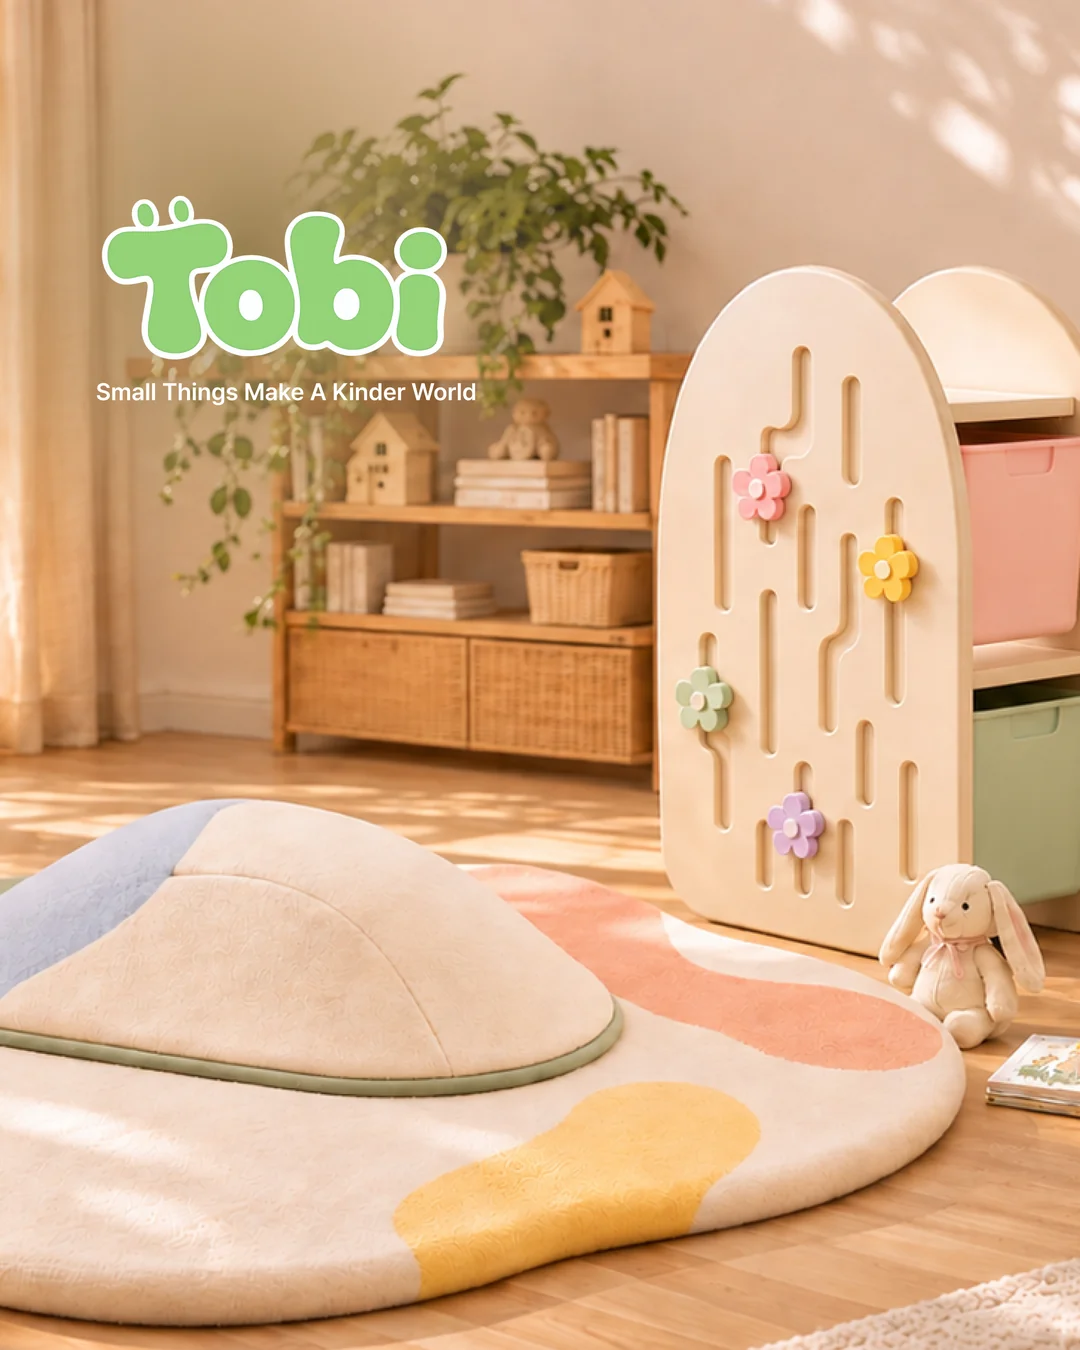
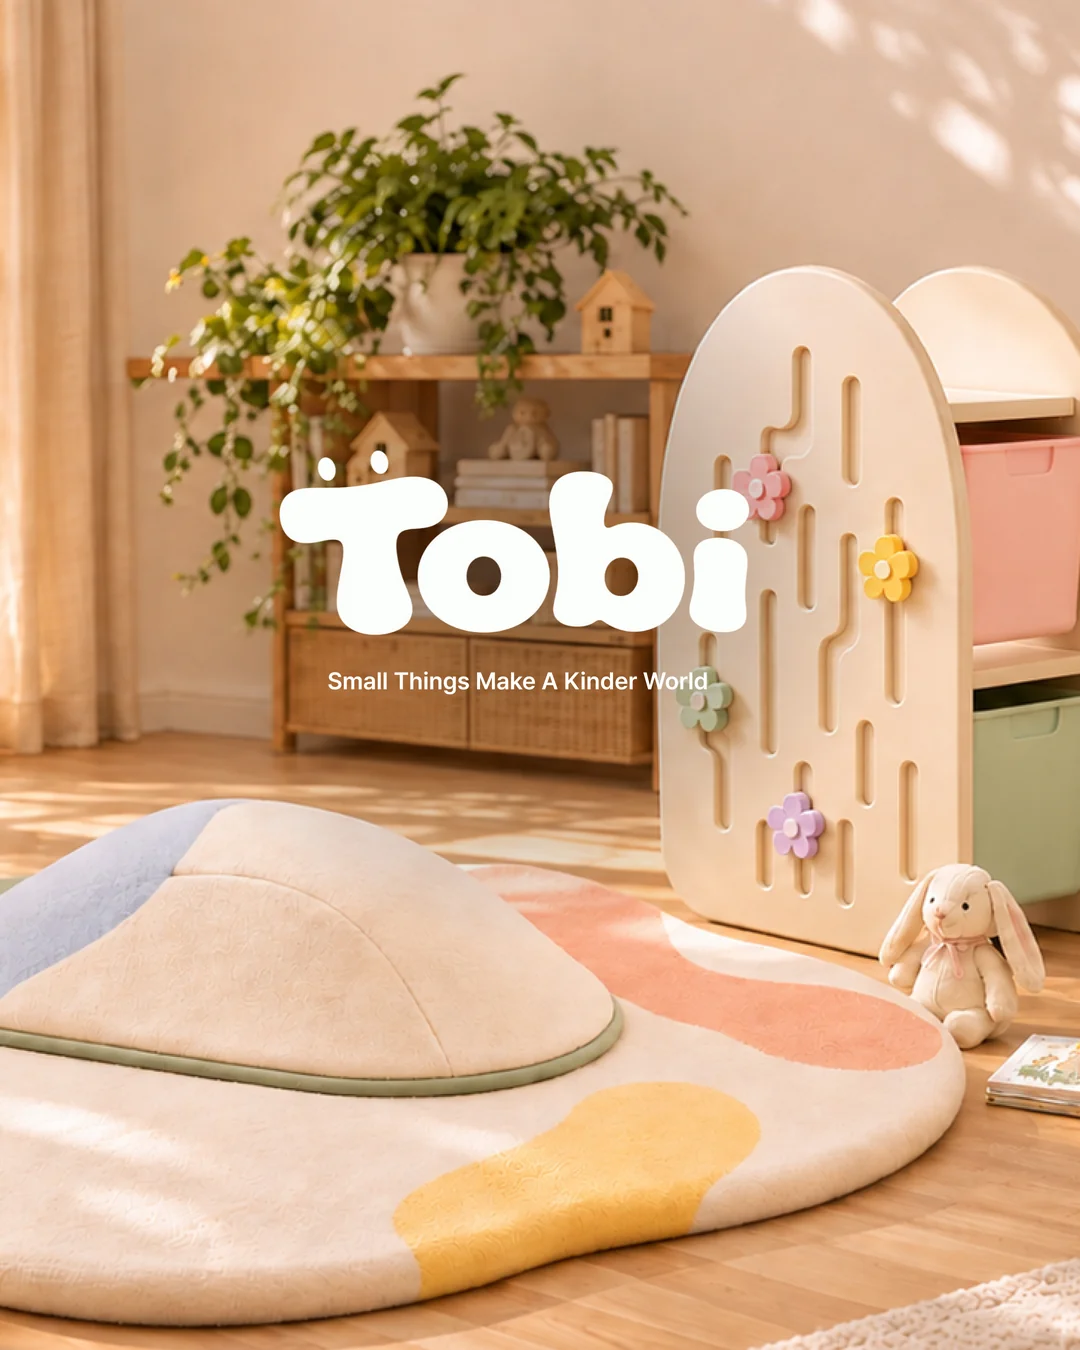
2026 PROJECTS: 재제출 반영 — Tobi(산디종) 썸네일·소개글, elo(산디종) 썸네일

Changed region(s): [[0.0917, 0.0622, 0.7639, 0.6533]]

diff --git a/2026/src/app/2026/_components/projects.ts b/2026/src/app/2026/_components/projects.ts
@@ -174,7 +174,7 @@ const WORKS: Record<ClassKey, [title: string, members: string[], description?: s
     [
       "Tobi",
       ["박수해", "권정현"],
-      "아이는 빠르게 성장하지만, 가구의 역할은 쉽게 변하지 않는다. \n기존의 성장형 가구가 주로 아이의 신체 크기 변화에 대응했다면, \nTOBI는 성장에 따라 달라지는 아이의 행동과 놀이 방식에 주목한다.\n\n숲에서 영감을 받은 부드러운 곡선과 자연물의 형태를 바탕으로, \n기어오르며 신체를 탐색하던 언덕은 숨고 상상하는 놀이 공간으로 변화한다. \n꽃 모양 핀을 움직이며 감각을 탐색하던 서랍장은 스스로 물건을 걸고 정리하는 생활 가구가 된다.\n\nTOBI는 단순히 크기를 조절하는 가구를 넘어, \n아이의 성장에 맞춰 역할과 경험이 함께 변화하는 전환형 유아 가구이다.",
+      "아이는 빠르게 성장하지만, 가구의 역할은 쉽게 변하지 않는다. \n기존의 성장형 가구가 주로 아이의 신체 크기 변화에 대응했다면, TOBI는 성장에 따라 달라지는 아이의 행동과 놀이 방식에 주목한다.\n\n숲에서 영감을 받은 부드러운 곡선과 자연물의 형태를 바탕으로, \n기어오르며 신체를 탐색하던 언덕은 숨고 상상하는 놀이 공간으로 변화한다. \n꽃 모양 핀을 움직이며 감각을 탐색하던 서랍장은 스스로 물건을 걸고 정리하는 생활 가구가 된다.\n\nTOBI는 단순히 크기를 조절하는 가구를 넘어, 아이의 성장에 맞춰 역할과 경험이 함께 변화하는 전환형 유아 가구이다.",
     ],
     [
       "FORE",
